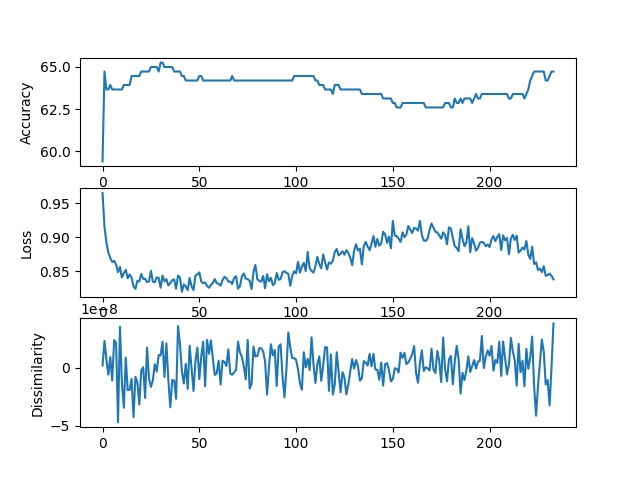
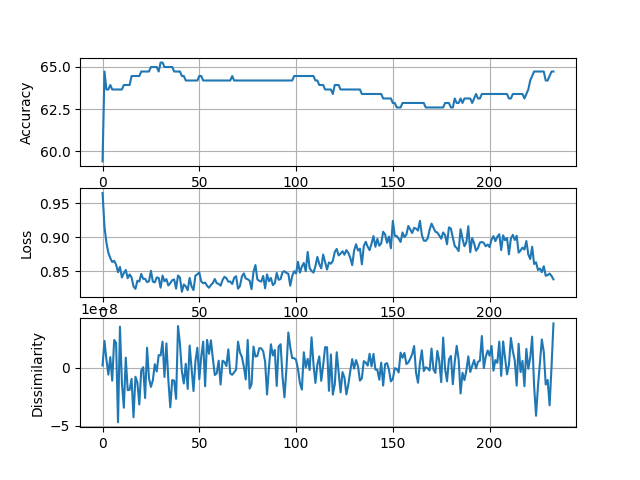
update figure with grid()

diff --git a/examples/plot_synthetic.py b/examples/plot_synthetic.py
@@ -93,33 +93,40 @@ def test_parse_log(in_file, out_file1, out_file2):
     plt.subplot(311)
     plt.plot(rounds, acc)
     plt.ylabel("Accuracy")
-    
+    plt.grid(which='both')
+
     plt.subplot(312)
     plt.plot(rounds, loss)
     plt.ylabel("Loss")
+    plt.grid(which='both')
         
     plt.subplot(313)
     plt.plot(rounds, sim)
     plt.ylabel("Dissimilarity")
 
+    plt.grid(which='both')
     plt.savefig(out_file1) # plt.savefig('plot_mnist.png')
     plt.show()
 
     plt.figure(2)
     plt.subplot(411)
     plt.plot(rounds, lrounds)
+    plt.grid(which='both')
     plt.ylabel("Lrounds")
 
     plt.subplot(412)
     plt.plot(rounds, grounds)
+    plt.grid(which='both')
     plt.ylabel("Grounds")
     
     plt.subplot(413)
     plt.plot(rounds, ans)
+    plt.grid(which='both')
     plt.ylabel("a_n")
 
     plt.subplot(414)
     plt.plot(rounds, etas)
+    plt.grid(which='both')
     plt.ylabel("eta")
 
     plt.savefig(out_file2)
@@ -129,6 +136,7 @@ def test_parse_log(in_file, out_file1, out_file2):
     plt.plot(rounds, energies)
     plt.ylabel("Energy consumption (J)")
     plt.savefig("./figures/plot_synthetic_ene.png")
+    plt.grid(which='both')
     plt.show()
 
 def test_fixedi(in_file='./logs/system_model_fixedi.log'): 
